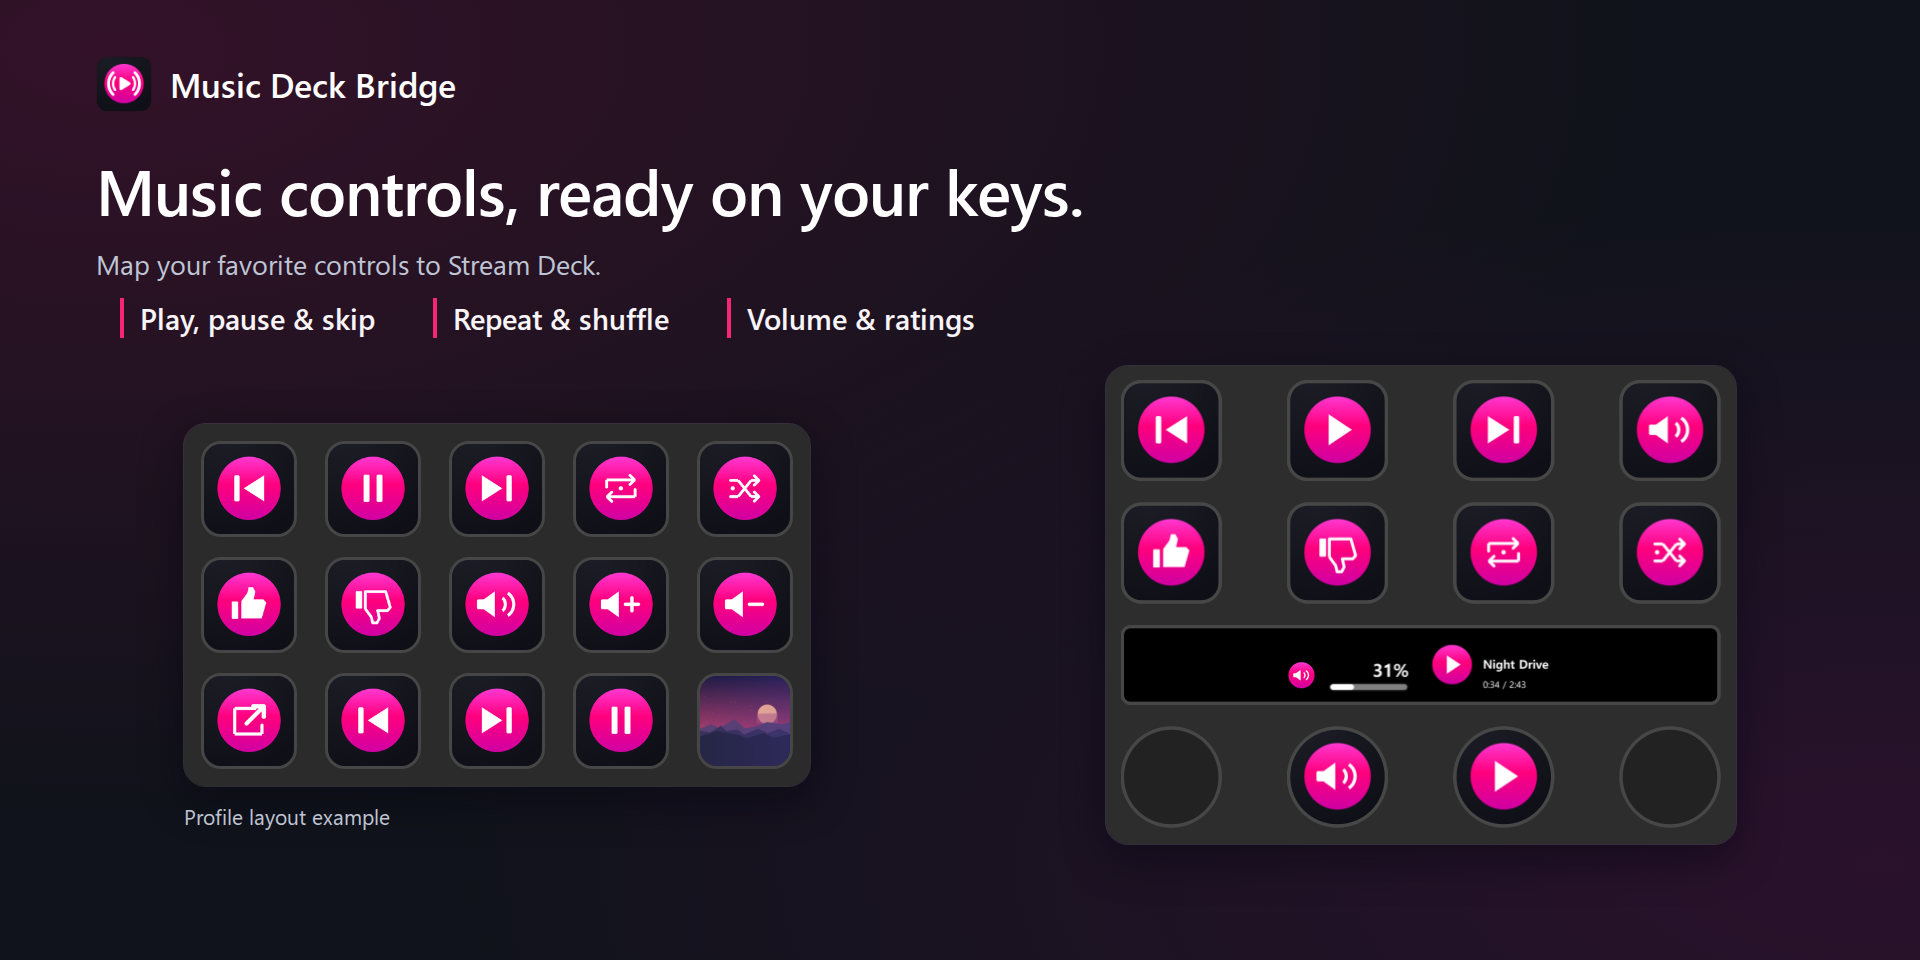
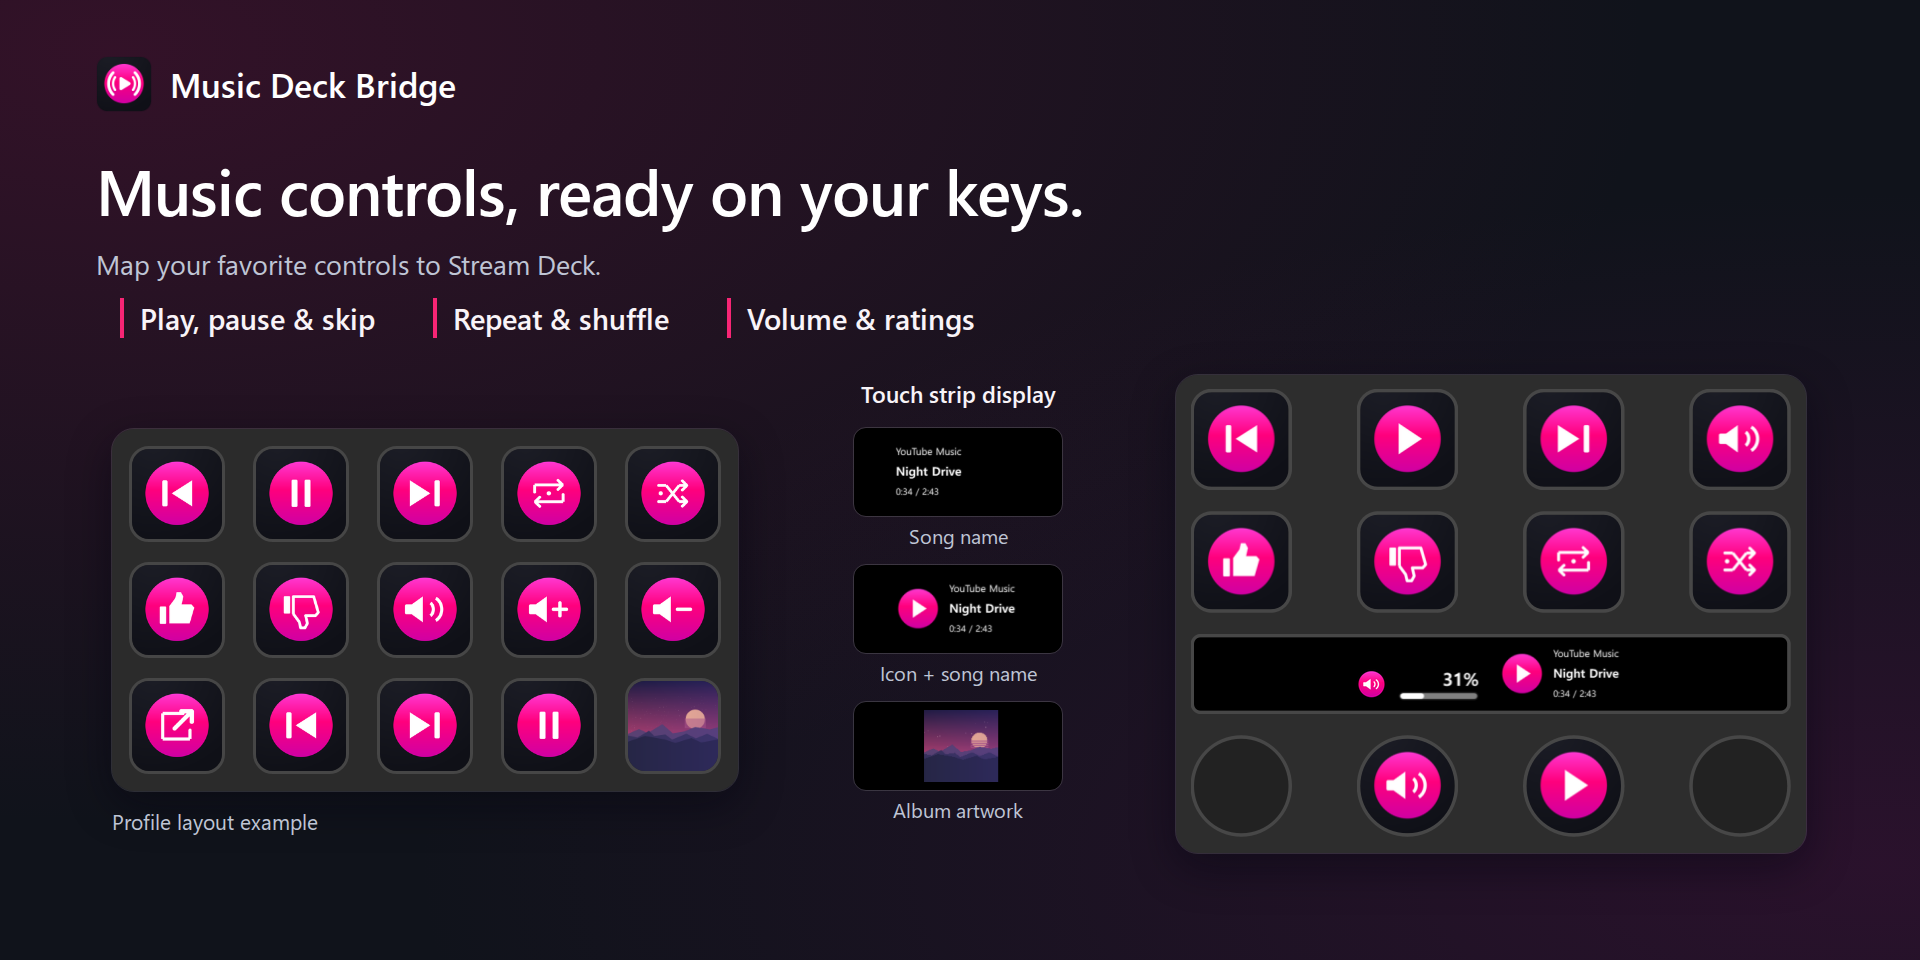
docs: show the three dial displays in the Marketplace gallery

Changed region(s): [[0.0625, 0.375, 0.9688, 0.9062]]

diff --git a/docs/verification/media.md b/docs/verification/media.md
@@ -41,9 +41,11 @@ Separately, on Windows Stream Deck 7.6.1.23033 with build `394b941`, the existin
 
 The [five gallery drafts](../../store-assets/drafts/v1.3.0/README.md) follow the layout, background colors and typography of the [published Marketplace gallery](https://marketplace.elgato.com/product/music-deck-bridge-044e81d9-9671-4277-bcb9-ce8b6d38c3fd). Revision `40b4245` records the product-photo draft. Revision `1dcf495` records the Stream Deck + app captures with the installed `394b941` plugin, including its eight-key linked artwork.
 
-The overview and controls slides use the [edited Stream Deck + profile capture](../../store-assets/drafts/v1.3.0/media/stream-deck-controls-profile-touch-strip.png) at native size. Its Current Track icon uses pixels captured with the updated plugin running in Windows Stream Deck 7.6.1.23033. Its Volume icon uses the updated transparent plugin asset at the size shown in the original app capture. Pixel comparisons confirmed both slides match the edited profile crop inside the rounded corners. The controls slide also shows a 5 × 3 MK.2 sample. The linked artwork slide shows nine linked keys on MK.2 and a central 4 × 4 artwork block on XL, with action icons and unassigned keys on both profiles. Render checks confirmed each linked key received a distinct crop from the plugin's album tile renderer. A pixel comparison confirmed that the centered artwork revision only changed the XL panel. [Elgato device comparison](https://help.elgato.com/hc/en-us/articles/4422903730573-Elgato-Stream-Deck-Device-Comparison)
+The overview and controls slides use the [edited Stream Deck + profile capture](../../store-assets/drafts/v1.3.0/media/stream-deck-controls-profile-touch-strip.png) at native size. Its Current Track panel uses a Windows Stream Deck 7.6.1.23033 capture of the updated plugin with sample playback. Its Volume icon uses the transparent plugin asset at the size shown in the original app capture. Pixel comparisons confirmed both slides match the edited profile crop inside the rounded corners. The controls slide also shows a 5 × 3 MK.2 sample. The linked artwork slide shows nine linked keys on MK.2 and a central 4 × 4 artwork block on XL, with action icons and unassigned keys on both profiles. Render checks confirmed each linked key received a distinct crop from the plugin's album tile renderer. A pixel comparison confirmed that the centered artwork revision only changed the XL panel. [Elgato device comparison](https://help.elgato.com/hc/en-us/articles/4422903730573-Elgato-Stream-Deck-Device-Comparison)
 
 The before-and-after Windows app captures confirmed that the Current Track feedback lost the dark rectangle around the icon. The prior installed plugin was restored after the check. SDK tests and the Chromium preview checked the volume and mute feedback. The Windows capture establishes app preview output for Current Track. Physical touch-strip output was outside the verification scope.
+
+For the three-mode revision, temporary sample bundles supplied the same song and cover to Song name, Icon + song name and Album artwork in the native Windows app. The controls slide uses unscaled crops of the three displays. Both text formats showed the YouTube Music heading and playback time. SDK and Chromium inspector fixtures separately exercised settings changes and persistence. The Windows installation returned to the original bundle and its saved-track file matched the pre-test checksum.
 
 The two playback popup panels were captured from the bundle's English UI with sample playback in paired and standalone modes. The connection slide captures the bundled property inspector and popup settings using sample PIN `123456` and default port `17864`. Each settings panel has a 24-pixel margin on all four sides. Pixel checks confirmed that the content pixels match the captures and layout checks verified that the PIN and port controls fit in the crop. The YouTube Music panel uses cropped Chrome and YouTube Music UI from a designated Windows playback window with the same original cover and sample title composited into it. Account controls, bookmarks and the original album cover were kept outside the export. The five English RGB PNGs were checked at 1920 × 960 and visually reviewed against the published design.
 

diff --git a/store-assets/drafts/v1.3.0/README.md b/store-assets/drafts/v1.3.0/README.md
@@ -19,8 +19,8 @@ Chrome 이미지 두 장은 `394b941`과 동일한 제품 소스의 임시 1.3.0
 
 Elgato 갤러리 초안은 모두 영어 1920 × 960 PNG입니다. 공개 갤러리의 배경과 제목 스타일을 따릅니다. Stream Deck +는 앱 프로필 캡처에 투명 터치 스트립 아이콘을 반영했고, MK.2와 XL은 각 기기의 키 배열에 맞춘 프로필 예시입니다. 제품 아이콘은 [기존 288 × 288 PNG](../../elgato/listing/app-icon-288.png)를 사용합니다. [Elgato 갤러리 기준](https://docs.elgato.com/guidelines/products/#gallery) · [이미지 출처 및 검증](../../../docs/verification/media.md#november-28-revised-130-elgato-gallery)
 
-1. [제품 소개](elgato-gallery-01-overview-1920x960.png) — Stream Deck 플러그인과 Chrome 확장 프로그램을 `+`로 묶고 `→`로 YouTube Music과 연결합니다.
-2. [Stream Deck 키 기능](elgato-gallery-02-controls-1920x960.png) — MK.2와 Stream Deck +의 재생, 반복·셔플, 볼륨·평가 매핑과 Stream Deck +의 두 다이얼을 보여줍니다.
+1. [제품 소개](elgato-gallery-01-overview-1920x960.png) — Stream Deck 플러그인과 Chrome 확장 프로그램을 `+`로 묶고 `→`로 YouTube Music과 연결합니다. 현재 곡 다이얼에 **YouTube Music** 제목을 표시합니다.
+2. [Stream Deck 키 기능](elgato-gallery-02-controls-1920x960.png) — MK.2와 Stream Deck +의 재생, 반복·셔플, 볼륨·평가 매핑과 현재 곡 다이얼의 세 가지 화면을 보여줍니다.
 3. [연결 방법](elgato-gallery-03-connection-1920x960.png) — Stream Deck과 Chrome 확장의 설정 화면에 여백을 두어 예시 PIN, 로컬 서버 포트와 버튼이 모두 보이도록 했습니다. 마지막에 YouTube Music 브라우저를 보여줍니다.
 4. [Chrome 단독 제어](elgato-gallery-04-chrome-1920x960.png) — 확장 팝업과 YouTube Music 브라우저를 함께 보여줍니다.
 5. [연결 앨범 이미지](elgato-gallery-05-linked-artwork-1920x960.png) — MK.2와 XL에서 선택한 키에 앨범 이미지를 연결하고, 다른 키에는 재생·볼륨 등의 동작 아이콘을 표시하거나 비워 둡니다.
